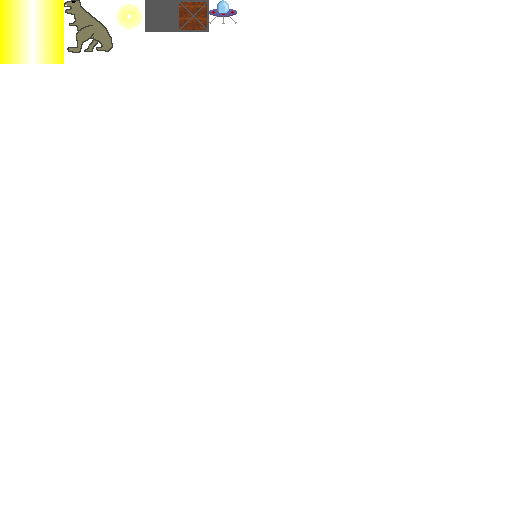
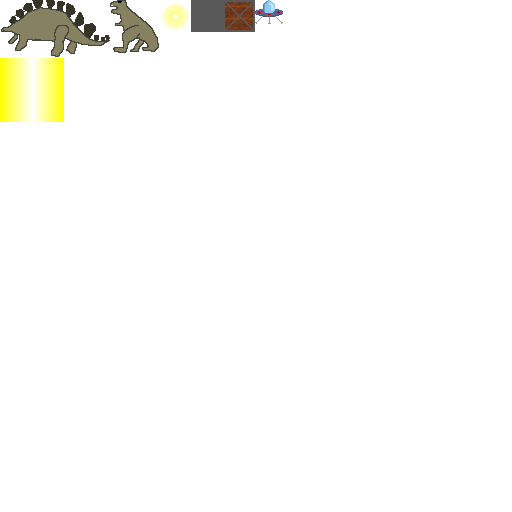
Added missiles and stegosaurus things and stuff

Changed region(s): [[0.0, 0.0, 0.5625, 0.25]]

diff --git a/actors.py b/actors.py
@@ -152,7 +152,7 @@ class DynamicBox(StaticBox):
             self.quad.vertex[(i+3)%4] = (screen_coords.x,screen_coords.y,10)
 
     def Damage(self,amount):
-        if globals.current_view.ship.state in [modes.ShipStates.TUTORIAL_MOVEMENT,
+        if globals.game_view.ship.state in [modes.ShipStates.TUTORIAL_MOVEMENT,
                                                modes.ShipStates.TUTORIAL_SHOOTING,
                                                modes.ShipStates.TUTORIAL_GRAPPLE,
                                                modes.ShipStates.TUTORIAL_TOWING]:
@@ -163,7 +163,7 @@ class DynamicBox(StaticBox):
 
 class Crate(DynamicBox):
     def Damage(self,amount):
-        if globals.current_view.ship.state in [modes.ShipStates.TUTORIAL_MOVEMENT,
+        if globals.game_view.ship.state in [modes.ShipStates.TUTORIAL_MOVEMENT,
                                                modes.ShipStates.TUTORIAL_SHOOTING,
                                                modes.ShipStates.TUTORIAL_GRAPPLE,
                                                modes.ShipStates.TUTORIAL_TOWING]:
@@ -176,15 +176,74 @@ class Crate(DynamicBox):
                 globals.current_view.mode.BoxDestroyed(self)
             self.Destroy()
 
+class Bullet(DynamicBox):
+    pass
 
-class PlayerBullet(DynamicBox):
+class PlayerBullet(Bullet):
     isBullet = True
-    def __init__(self,physics,bl,tr,tc,filter_group,mass):
+    damage = 10
+    bullet_shape = Point(20,20)
+    def __init__(self,parent,physics,bl,tr,tc,filter_group,mass):
+        self.parent = parent
         self.filter_group = filter_group
         self.mass = mass
         super(PlayerBullet,self).__init__(physics,bl,tr,tc)
 
+class SeekingMissile(Bullet):
+    isBullet = True
+    damage = 20
+    bullet_shape = Point(20,20)
+    def __init__(self,parent,physics,bl,tr,tc,filter_group,mass):
+        self.parent = parent
+        self.target = globals.game_view.ship
+        self.filter_group = filter_group
+        self.mass = mass
+        super(SeekingMissile,self).__init__(physics,bl,tr,globals.game_view.atlas.TextureCoords(os.path.join(globals.dirs.sprites,'beam.png')))
+
+    def Destroy(self):
+        if self.parent:
+            self.parent.DeleteBullet(self)
+        super(SeekingMissile,self).Destroy()
+
+    def PhysUpdate(self):
+        super(SeekingMissile,self).PhysUpdate()
+        #Apply a thrust in the direction of the target
+        target_pos = self.target.GetPos()
+        self.pos = self.GetPos()
+        if not target_pos or not self.pos:
+            return
+        diff = target_pos - self.pos
+        direction = self.GetAngle() + (math.pi/2)
+        distance,angle = cmath.polar(complex(diff.x,diff.y))
+        #angle = (angle - (math.pi/2) - self.GetAngle())%(math.pi*2)
+        angle = (angle - self.GetAngle() - (math.pi/2))%(math.pi*2)
+        
+        if angle < (math.pi/2):
+            #need to turn right, but by how much?
+            amount = angle/math.pi
+        else:
+            amount = -(2*math.pi - angle)/math.pi
+
+        desired_av = 100*amount
+        desired_velocity = 40*(1-abs(amount))
+        torque = (desired_av - self.body.angularVelocity)
+        current_speed = Point(*self.body.linearVelocity)
+        vector = cmath.rect(1,direction)
+        vector_point = Point(vector.real,vector.imag)
+        dot = vector_point*current_speed
+        dot = (dot.x + dot.y)
+        
+        thrust = desired_velocity - dot
+            
+        angle = self.body.angle + math.pi/2
+        vector = vector*thrust
+        self.body.ApplyForce((vector.real,vector.imag),self.body.position)
+        self.body.ApplyTorque(torque)
+
+
 class ShootingThing(DynamicBox):
+    wait_for_bullets = False
+    straight_up = False
     def Fire(self,pos):
         diff = pos - self.GetPos()
         distance,angle = cmath.polar(complex(diff.x,diff.y))
@@ -206,10 +265,15 @@ class ShootingThing(DynamicBox):
         #if distance >= self.max_distance:
         #    return
         for offset in self.cannon_positions:
+            if self.wait_for_bullets and len(self.bullets) >= self.max_bullets:
+                continue
             bpos = Point(*self.body.GetWorldPoint(tuple(offset*self.physics.scale_factor)))/self.physics.scale_factor
-            bullet = PlayerBullet(self.physics,bpos,bpos+Point(20,20),tc = self.parent.atlas.TextureCoords(os.path.join(globals.dirs.sprites,'blast.png')),filter_group = self.filter_group,mass = self.bullet_mass)
+            bullet = self.bullet_type(self,self.physics,bpos,bpos+self.bullet_type.bullet_shape,tc = self.parent.atlas.TextureCoords(os.path.join(globals.dirs.sprites,'blast.png')),filter_group = self.filter_group,mass = self.bullet_mass)
             #print dir(bullet.body)
-            bullet.body.linearVelocity = tuple(Point(*self.body.linearVelocity) + (pos - bpos).unit_vector()*self.bullet_velocity)
+            if self.straight_up:
+                pass
+            else:
+                bullet.body.linearVelocity = tuple(Point(*self.body.linearVelocity) + (pos - bpos).unit_vector()*self.bullet_velocity)
             self.bullets.append(bullet)
             if len(self.bullets) > self.max_bullets:
                 bullet = self.bullets.pop(0)
@@ -228,10 +292,12 @@ class Trex(ShootingThing):
     max_bullets = 2
     bullet_mass = 0.04
     bullet_velocity = 80
+    bullet_type = PlayerBullet
     cannon_positions = [Point(20,5)]
+    sprite = 'trex.png'
     def __init__(self,parent,physics,bl,tr):
         self.parent = parent
-        tc = self.parent.atlas.TextureCoords(os.path.join(globals.dirs.sprites,'trex.png'))
+        tc = self.parent.atlas.TextureCoords(os.path.join(globals.dirs.sprites,self.sprite))
         super(Trex,self).__init__(physics,bl,tr,tc)
         self.cooldown = 0
         self.bullets = []
@@ -242,11 +308,11 @@ class Trex(ShootingThing):
     def Damage(self,amount):
         if self.dead:
             return
-        self.parent.ship.AddScore(7)
-        if globals.current_view.ship.state in [modes.ShipStates.TUTORIAL_MOVEMENT,
-                                               modes.ShipStates.TUTORIAL_SHOOTING,
-                                               modes.ShipStates.TUTORIAL_GRAPPLE,
-                                               modes.ShipStates.TUTORIAL_TOWING]:
+        self.parent.ship.AddScore(amount)
+        if globals.game_view.ship.state in [modes.ShipStates.TUTORIAL_MOVEMENT,
+                                            modes.ShipStates.TUTORIAL_SHOOTING,
+                                            modes.ShipStates.TUTORIAL_GRAPPLE,
+                                            modes.ShipStates.TUTORIAL_TOWING]:
             return
         self.health -= amount
         if self.health < 0:
@@ -263,8 +329,24 @@ class Trex(ShootingThing):
         player_pos = self.parent.ship.GetPos()
         if not player_pos:
             return
-        self.Fire(player_pos)
-        
+        self.Fire(player_pos)  
+
+class Stegosaurus(Trex):
+    bullet_type = SeekingMissile
+    bullet_velocity = 10
+    cooldown_time = 5000
+    max_bullets = 1
+    wait_for_bullets = True
+    sprite = 'steg.png'
+
+    def DeleteBullet(self,bullet):
+        index = None
+        for i,item in enumerate(self.bullets):
+            if item is bullet:
+                index = i
+                break
+        if index != None:
+            del self.bullets[index]
         
 
 class PlayerShip(ShootingThing):
@@ -281,6 +363,7 @@ class PlayerShip(ShootingThing):
     max_bullets = 10
     bullet_mass = 0.08
     bullet_velocity = 200
+    bullet_type = PlayerBullet
     cannon_positions = [Point(20,5),Point(-20,5)]
     def __init__(self,parent,physics,bl,tr,tc):
         self.parent = parent
@@ -334,7 +417,7 @@ class PlayerShip(ShootingThing):
                                       text   = ' ',
                                       scale  = 2)
         self.AdjustBeamPower(1000)
-        self.SetHealth(350)
+        self.SetHealth(500)
         globals.sounds.hurt.set_volume(0.2)
         self.SetScore(0)
 
@@ -535,7 +618,7 @@ class PlayerShip(ShootingThing):
     def Damage(self,amount):
         if self.dead:
             return
-        if globals.current_view.ship.state != modes.ShipStates.DESTROY_DINOS:
+        if globals.game_view.ship.state != modes.ShipStates.DESTROY_DINOS:
             return
         self.SetHealth(self.health - amount)
         globals.sounds.hurt.play()

diff --git a/game_view.py b/game_view.py
@@ -181,10 +181,10 @@ class Physics(object):
         self.world.Step(self.timeStep, self.velocityIterations, self.positionIterations)
         for contact in self.contacts:
             #print contact
-            if isinstance(contact.shape1.userData,actors.PlayerBullet):
+            if isinstance(contact.shape1.userData,actors.Bullet):
                 bullet = contact.shape1
                 target = contact.shape2
-            elif isinstance(contact.shape2.userData,actors.PlayerBullet):
+            elif isinstance(contact.shape2.userData,actors.Bullet):
                 bullet = contact.shape2
                 target = contact.shape1
             else:
@@ -193,7 +193,7 @@ class Physics(object):
             if bullet:
                 bullet.userData.Destroy()
                 if target.userData != None:
-                    target.userData.Damage(10)
+                    target.userData.Damage(bullet.userData.damage)
                 #print 'Bullet Collision!'
         for obj in self.objects:
             obj.PhysUpdate()
@@ -396,11 +396,13 @@ class GameView(ui.RootElement):
 
     def AddTrex(self):
         x = 0.1 + (random.random()*self.absolute.size.x*0.9)
-        bl = Point(x,self.GetFloorHeight(x)+100)
-        self.enemies.append( actors.Trex(self,
-                                         self.physics,
-                                         bl = bl,
-                                         tr = bl + Point(50,50)) )
+        #x = self.absolute.size.x*0.5
+        bl = Point(x,self.GetFloorHeight(x)+400)
+        type,size = random.choice([(actors.Trex,Point(50,50)),(actors.Stegosaurus,Point(80,40))])
+        self.enemies.append( type(self,
+                                   self.physics,
+                                   bl = bl,
+                                   tr = bl + size) )
         self.ship.SetEnemies(len(self.enemies))
 
     def RemoveTrex(self,trex):

diff --git a/modes.py b/modes.py
@@ -124,7 +124,7 @@ class ShipStates(object):
     DINO_TEXT            = 7
     DESTROY_DINOS_IMMUNE = 8
     DESTROY_DINOS        = 9
-    TUTORIAL = set([TUTORIAL_MOVEMENT,TUTORIAL_SHOOTING,TUTORIAL_GRAPPLE,TUTORIAL_TOWING])
+    TUTORIAL = set([TUTORIAL_MOVEMENT,TUTORIAL_SHOOTING,TUTORIAL_GRAPPLE,TUTORIAL_TOWING,TUTORIAL_BEAM])
 
 class GameMode(Mode):
     def __init__(self,parent):
@@ -266,7 +266,7 @@ class GameMode(Mode):
         if self.parent.ship.state != ShipStates.DESTROY_CRATES:
             #We don't care
             return
-        #temporary cheat:
+        #temporary cheat:wwwwwww
         #if 0:
         p = box.GetPos()
         target = 750

diff --git a/sounds.py b/sounds.py
@@ -10,6 +10,6 @@ class Sounds(object):
         for filename in glob.glob('*.wav'):
             #print filename
             sound = pygame.mixer.Sound(filename)
-            sound.set_volume(0.4)
+            sound.set_volume(0.6)
             name = os.path.splitext(filename)[0]
             setattr(self,name,sound)

diff --git a/main.py b/main.py
@@ -51,7 +51,7 @@ def main():
     """Main loop for the game"""
     Init()
 
-    globals.current_view = game_view.GameView()
+    globals.current_view = globals.game_view = game_view.GameView()
 
     done = False
     last = 0
